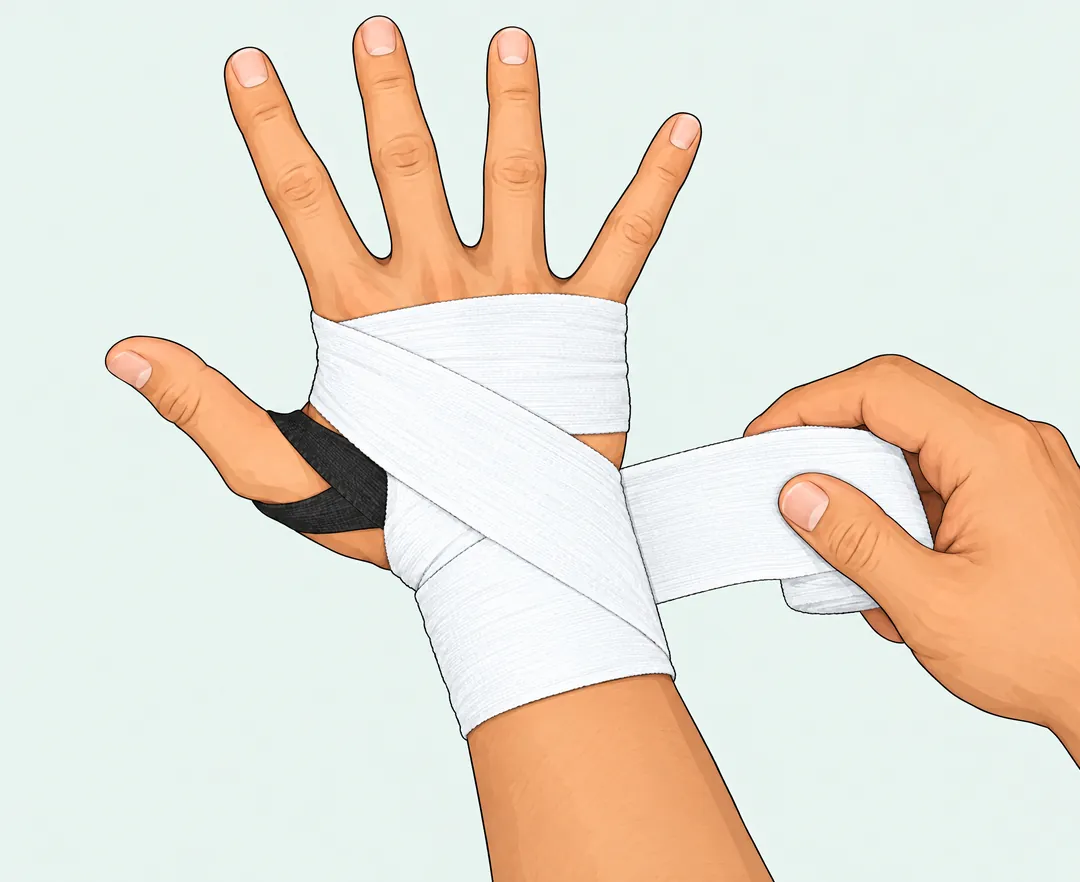
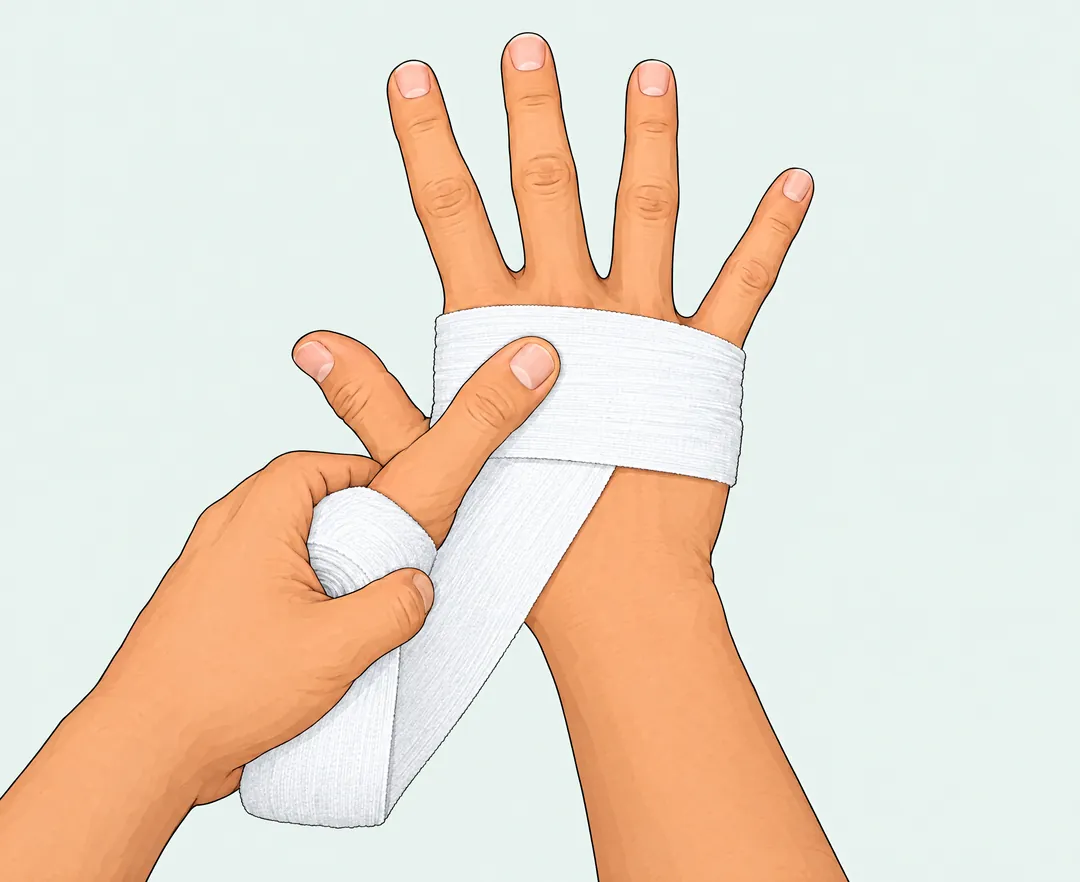
feat(handwrap): 붕대 감기를 153 방법(주먹 패드)으로 다시 — 12단계 글·그림
대표님: "화질이랑 이미지 다 좋은데 우리 방법이랑 달라" + 보내 준 영상('복싱 3.7m 붕대 감는 방법')이 153 방법.
- 그 영상 순서대로 12단계: 검지·중지로 끝 잡기 → 손가락 벌려 감기(남자 2~3·여자 3~4바퀴) → 빼서 한 번 접기
  → 주먹 위에(패드는 주먹보다 크게) → 끝 라인 2번 고정 → 손목 1바퀴 → 새끼·검지·중지 쪽으로 들어가
  엄지 사이로 나오기(지날 때마다 손목 1바퀴) → 남은 붕대는 손목에 → 벨크로 + 손바닥 정리
- 그림 14장을 같은 그림체로 새로 그림 + 화살표 좌표 맞춤, 흔한 실수·핵심 포인트·오삼이 답변도 같은 순서로
- 그림이 오른손이라 '왼손'을 고르면 좌우로 뒤집어 보이게 (예전엔 반대로 보였음)
- 훈련 라이브러리 '복싱 붕대 감기' 글도 새 방법으로 (예전 글 그대로일 때만 바꿈)

Claude-Session: https://claude.ai/code/session_01WP4Wv3phPcXu7LVLsiPPnb

diff --git a/src/data/handWrapGuide.ts b/src/data/handWrapGuide.ts
@@ -1,5 +1,5 @@
 /**
- * 🥊 붕대 감기 가이드 — 153 표준 13단계 · 흔한 실수 · 영상 포인트.
+ * 🥊 붕대 감기 가이드 — 153 표준 12단계 · 흔한 실수 · 영상 포인트.
  *
  *   2026-10-13: 처음 만듦 (그림 8단계).
  *   2026-10-15 대표님: "손 모양이 너무 AI 티가 나" → 그린 손 대신 실제 사진 + 감는 방향 화살표.
@@ -8,6 +8,12 @@
  *     사진 = 대표님이 올린 단계 사진(12컷 + 완성)을 잘라 쓴 것 (src/assets/handwrap). 153 코치님 사진으로 바꾸면 화살표 좌표도 맞춘다.
  *   2026-10-15 대표님: "사진 화질이 안 좋아 — 애니메이션화해서 화질 좋게" → 같은 사진을 보고 다시 그린 고화질 그림(1080px)으로 교체,
  *     화살표 좌표도 새 그림에 맞춤. 완성 화면 = 주먹(step14) + 다 감은 손(step13).
+ *
+ *   2026-10-16 대표님: "화질이랑 이미지 다 좋은데 우리 방법이랑 달라" + 보내 준 영상('복싱 3.7m 붕대 감는 방법')이 153 방법과 같다
+ *     → 그 영상 순서대로 12단계를 다시 쓰고 그림을 같은 그림체로 새로 그림(Higgsfield). 주먹 패드부터 만든다:
+ *       검지·중지로 끝 잡기 → 손가락 벌려 감기(남자 2~3·여자 3~4바퀴) → 빼서 한 번 접기 → 주먹 위에 → 끝 라인 2번 고정 → 손목 1바퀴
+ *       → 새끼·검지·중지 쪽으로 들어가 엄지 사이로 나오기(지날 때마다 손목 1바퀴) → 남은 붕대는 손목에 → 벨크로 → 손바닥 정리.
+ *     예전 '엄지 고리 · 손목 처음 2바퀴 · 손가락 사이 통과'는 뺐다. 완성 화면 = 주먹(step14) + 다 감은 손(step13).
  *
  *   신규 회원 첫날: 코치님은 한 손만 빠르게 감아 주고, 다른 손은 회원이 이 화면을 보며 직접 감는다.
  *   그다음 '집에서 혼자 감아 보기' 미션 — 목표 일수·보상 숫자는 DB 함수가 정본이다
@@ -34,8 +40,14 @@ import step14 from "@/assets/handwrap/step14.webp";
 export const HANDWRAP_EXERCISE_NAME = "복싱 붕대 감기";
 
 /**
- * 사진 위 화살표 — 좌표계는 viewBox 0 0 120 98 (사진 가로:세로 = 120:98, 가운데 맞춤으로 덮는다).
- * d = 감는 길(끝에 화살촉), (sx, sy) = 시작점, (tx, ty, tr) = 붕대가 들어갈 곳(손가락 사이 등, 없으면 tr 0).
+ * 그림 속 감기는 손 — 1인칭으로 내려다본 오른손(엄지가 왼쪽, 롤은 왼손이 잡음).
+ * 화면에서 다른 손을 고르면 사진과 화살표를 함께 좌우로 뒤집어 보여 준다. 그림을 왼손 사진으로 바꾸면 이것도 "left".
+ */
+export const HANDWRAP_PHOTO_HAND: "left" | "right" = "right";
+
+/**
+ * 그림 위 화살표 — 좌표계는 viewBox 0 0 120 98 (그림 가로:세로 = 120:98, 가운데 맞춤으로 덮는다).
+ * d = 감는 길(끝에 화살촉), (sx, sy) = 시작점, (tx, ty, tr) = 붕대가 들어갈·나올 곳(없으면 tr 0).
  */
 export interface WrapArrow {
   d: string;
@@ -49,107 +61,102 @@ export interface WrapArrow {
 export interface HandWrapStep {
   title: string;
   body: string;
-  /** 사진 아래 칩 (예: 손목 2바퀴 · 처음만) */
+  /** 그림 아래 칩 (예: 손목 1바퀴) */
   chip?: string;
   photo: string;
-  arrow: WrapArrow;
+  /** 감는 방향 — 감지 않는 단계(접기 등)는 없음 */
+  arrow?: WrapArrow;
 }
 
 export const HANDWRAP_STEPS: readonly HandWrapStep[] = [
   {
-    title: "엄지에 고리 걸기",
-    body: "고리를 엄지에 걸고, 붕대를 손등 쪽으로 넘겨요. 붕대에 ‘THIS SIDE DOWN’ 표시가 있으면 그 면이 피부에 닿게 해요.",
+    title: "붕대 끝 잡기",
+    body: "손바닥을 내 쪽으로 펴고, 붕대 끝을 검지와 중지 사이에 끼워 잡아요.",
     photo: step01,
-    arrow: { d: "M60 53 Q86 56 106 70", sx: 60, sy: 53 },
+    arrow: { d: "M46 62 Q54 46 61 32", sx: 46, sy: 62, tx: 62, ty: 28, tr: 5 },
   },
   {
-    title: "손목 2바퀴",
-    body: "손등을 지나 손목을 두 바퀴 감아 손목뼈를 덮어요. 단단하게, 손이 저리지 않게. 그다음부터 손목은 지날 때마다 1바퀴씩만 감아요.",
-    chip: "손목 2바퀴 · 처음만",
+    title: "손가락 벌려 감기",
+    body: "나머지 손가락을 넓게 벌리고 네 손가락을 함께 감아요. 손가락을 넓게 벌려야 패드가 주먹을 다 덮을 만큼 커져요.",
+    chip: "남자 2~3바퀴 · 여자 3~4바퀴",
     photo: step02,
-    arrow: { d: "M68 80 Q96 92 114 78 Q118 62 106 52", sx: 68, sy: 80 },
+    arrow: { d: "M38 48 Q62 42 86 36 Q92 28 84 22", sx: 38, sy: 48 },
   },
   {
-    title: "손등 지나 정권으로",
-    body: "손등 위를 비스듬히 올라가 주먹 마디(정권)로 가요.",
+    title: "조심해서 빼기",
+    body: "감은 고리가 풀리지 않게 손가락 끝 쪽으로 조심해서 빼요.",
     photo: step03,
-    arrow: { d: "M42 62 Q62 52 84 42", sx: 42, sy: 62 },
+    arrow: { d: "M52 36 Q50 24 48 13", sx: 52, sy: 36 },
   },
   {
-    title: "정권 3바퀴",
-    body: "손가락을 쫙 편 채로 정권을 세 바퀴 감아요. 주먹을 쥐고 감으면 나중에 손이 조여요.",
-    chip: "정권 3바퀴",
+    title: "한 번 접어 패드 만들기",
+    body: "뺀 고리를 납작하게 눌러 펴고, 두 손가락 정도 남기고 한 번 접어 두툼한 주먹 패드를 만들어요.",
     photo: step04,
-    arrow: { d: "M44 37 Q76 32 106 38", sx: 44, sy: 37 },
   },
   {
-    title: "다시 손목으로",
-    body: "손등을 반대 방향으로 비스듬히 내려와 손목으로 가요. 손등에 X자가 생겨요.",
+    title: "주먹 위에 올리기",
+    body: "엄지로 패드를 잡고 주먹 마디(정권) 위에 올려요. 패드가 주먹보다 커서 마디를 다 덮어야 해요.",
+    chip: "패드는 주먹보다 크게",
     photo: step05,
-    arrow: { d: "M68 34 Q60 54 48 76", sx: 68, sy: 34 },
+    arrow: { d: "M58 72 Q60 60 62 49", sx: 58, sy: 72, tx: 63, ty: 42, tr: 8 },
+  },
+  {
+    title: "끝 라인 2번 감아 고정",
+    body: "패드가 밀리지 않게, 패드 위아래 끝 라인을 따라 손을 깔끔하게 2번 감아요.",
+    chip: "2바퀴로 고정",
+    photo: step06,
+    arrow: { d: "M30 66 Q60 58 88 52 Q94 44 86 36", sx: 30, sy: 66 },
   },
   {
     title: "손목 1바퀴",
-    body: "손목을 한 바퀴만 감아요.",
+    body: "손등을 비스듬히 내려가 손목을 한 바퀴 감아요.",
     chip: "손목 1바퀴",
-    photo: step06,
-    arrow: { d: "M28 74 Q46 86 64 76 Q70 66 60 60", sx: 28, sy: 74 },
-  },
-  {
-    title: "새끼–약지 사이 통과",
-    body: "손목에서 손등을 지나 새끼손가락과 약지 사이로 넣어요.",
     photo: step07,
-    arrow: { d: "M54 84 Q58 62 63 44", sx: 54, sy: 84, tx: 63, ty: 38, tr: 5 },
+    arrow: { d: "M62 50 Q74 56 84 64 Q90 73 80 78 Q66 80 58 72", sx: 62, sy: 50 },
   },
   {
-    title: "손바닥으로 넘기기",
-    body: "통과한 붕대를 손바닥 쪽으로 넘겨요.",
+    title: "새끼손가락 쪽 → 엄지 사이",
+    body: "손목에서 손등을 비스듬히 올라가 새끼손가락 쪽으로 들어가고, 손바닥을 돌아 엄지와 검지 사이로 나와요. 그다음 손목을 한 바퀴 감아요.",
+    chip: "손목 1바퀴",
     photo: step08,
-    arrow: { d: "M56 38 Q76 40 96 44", sx: 56, sy: 38 },
+    arrow: { d: "M64 62 Q78 50 90 40", sx: 64, sy: 62, tx: 52, ty: 43, tr: 5 },
   },
   {
-    title: "넘어와 손목 1바퀴",
-    body: "손바닥을 지나 손목으로 돌아와 한 바퀴 감아요.",
+    title: "검지 쪽 → 엄지 사이",
+    body: "같은 방법으로 이번엔 검지 쪽으로 들어가 엄지와 검지 사이로 나와요. 손등에 X자가 생겨요. 그다음 손목 한 바퀴.",
     chip: "손목 1바퀴",
     photo: step09,
-    arrow: { d: "M24 72 Q40 82 58 72 Q62 64 56 58", sx: 24, sy: 72 },
+    arrow: { d: "M84 62 Q70 50 56 38", sx: 84, sy: 62, tx: 47, ty: 44, tr: 5 },
   },
   {
-    title: "약지–중지 사이 통과",
-    body: "같은 방법으로 약지와 중지 사이로 넣어요.",
+    title: "중지 쪽 → 엄지 사이",
+    body: "마지막으로 중지 쪽으로 들어가 엄지와 검지 사이로 나와요. 그다음 손목 한 바퀴.",
+    chip: "손목 1바퀴",
     photo: step10,
-    arrow: { d: "M50 80 Q51 62 53 46", sx: 50, sy: 80, tx: 53, ty: 40, tr: 5 },
+    arrow: { d: "M66 74 Q66 54 66 34", sx: 66, sy: 74, tx: 48, ty: 44, tr: 5 },
   },
   {
-    title: "손바닥 지나 손목 1바퀴",
-    body: "8·9단계와 같아요. 손바닥을 지나 손목을 한 바퀴 감아요.",
-    chip: "손목 1바퀴",
+    title: "남은 붕대는 손목에",
+    body: "남은 붕대는 손목에 전부 감아요. 손목이 단단하게 잡혀요.",
     photo: step11,
-    arrow: { d: "M36 82 Q50 90 64 80 Q70 70 62 64", sx: 36, sy: 82 },
+    arrow: { d: "M58 66 Q76 60 92 66 Q96 76 86 82 Q72 86 58 78", sx: 58, sy: 66 },
   },
   {
-    title: "중지–검지 사이 → 손목 1바퀴",
-    body: "마지막 사이(중지–검지)를 지나 손바닥으로 넘기고, 손목을 한 바퀴 감아요.",
-    chip: "손목 1바퀴",
+    title: "벨크로 붙이고 손바닥 정리",
+    body: "벨크로(찍찍이)를 손목 바깥쪽(손등 쪽)에 꾹 눌러 붙이고, 손바닥 쪽 주름을 펴서 정리해요.",
+    chip: "벨크로 마무리",
     photo: step12,
-    arrow: { d: "M64 84 Q60 62 57 46", sx: 64, sy: 84, tx: 56, ty: 40, tr: 5 },
-  },
-  {
-    title: "손목에서 찍찍이 마무리",
-    body: "남은 붕대로 손목을 한 바퀴 감고, 찍찍이를 손목 바깥쪽(손등 쪽)에 꾹 눌러 붙여요.",
-    chip: "손목 1바퀴 + 찍찍이",
-    photo: step13,
-    arrow: { d: "M64 86 Q82 92 92 80", sx: 64, sy: 86, tx: 96, ty: 74, tr: 7 },
+    arrow: { d: "M58 78 Q64 73 69 70", sx: 58, sy: 78, tx: 73, ty: 68, tr: 6 },
   },
 ];
 
-/** 손목 합계 — 처음 2바퀴 + 지날 때마다 1바퀴 × 5 (6·9·11·12·13단계) */
-export const HANDWRAP_WRIST_TOTAL = "손목 합계 2 + 1 × 5 = 7바퀴";
+/** 한눈에 요약 줄 (예전 이름 그대로 — 화면이 이 이름으로 읽는다) */
+export const HANDWRAP_WRIST_TOTAL = "주먹 패드 → 2바퀴 고정 → 새끼·검지·중지 쪽 (지날 때마다 손목 1바퀴) → 벨크로";
 
 /** 다 감은 뒤(완성 화면) */
 export const HANDWRAP_DONE = {
   title: "완성!",
-  body: "주먹을 꽉 쥐었다 펴 보세요. 마디가 푹신하고 손목이 단단하면 잘 감긴 거예요. 손끝이 저리거나 하얘지면 풀고 조금 느슨하게 다시 감아요.",
+  body: "주먹을 꽉 쥐었다 펴 보세요. 마디가 푹신하고 손목이 단단하면 잘 감긴 거예요. 너무 느슨하거나 너무 꽉 감지 않게 여러 번 연습해요 — 손끝이 저리거나 하얘지면 풀고 다시 감아요.",
   photos: [step14, step13] as const,
 } as const;
 
@@ -159,17 +166,17 @@ export interface HandWrapMistake {
 }
 
 export const HANDWRAP_MISTAKES: readonly HandWrapMistake[] = [
-  { wrong: "주먹을 쥔 채로 정권을 감아요", fix: "손가락을 쫙 편 채로 감아야 주먹을 쥐었을 때 피가 잘 통해요." },
-  { wrong: "있는 힘껏 세게 감아요", fix: "손끝이 저리거나 하얘지면 바로 풀고 다시 — 단단하게, 하지만 아프지 않게." },
-  { wrong: "손목을 지날 때마다 여러 바퀴 감아요", fix: "손목은 처음에만 2바퀴, 그다음부터는 지날 때마다 1바퀴씩이면 충분해요." },
-  { wrong: "찍찍이를 손목 안쪽(손바닥 쪽)에 붙여요", fix: "찍찍이는 손목 바깥쪽(손등 쪽)에 붙여야 장갑 안에서 쓸리지 않아요." },
-  { wrong: "붕대가 꼬이거나 주름진 채로 감아요", fix: "붕대를 평평하게 펴면서 감아야 쓸리지 않아요." },
+  { wrong: "손가락을 오므리고 감아요", fix: "손가락을 넓게 벌리고 감아야 패드가 커져서 주먹 마디를 다 덮어요." },
+  { wrong: "패드를 올리고 바로 손목으로 가요", fix: "패드 위아래 끝 라인을 2번 감아 고정해야 칠 때 패드가 밀리지 않아요." },
+  { wrong: "있는 힘껏 세게 감아요", fix: "손끝이 저리거나 하얘지면 바로 풀고 다시 — 너무 느슨하지도, 너무 꽉 조이지도 않게." },
+  { wrong: "벨크로를 손목 안쪽(손바닥 쪽)에 붙여요", fix: "벨크로는 손목 바깥쪽(손등 쪽)에 붙여야 장갑 안에서 쓸리지 않아요." },
+  { wrong: "붕대가 꼬이거나 주름진 채로 감아요", fix: "붕대를 평평하게 펴면서 감고, 마지막에 손바닥 쪽도 펴서 정리해요." },
 ];
 
 /** 영상 플레이어 아래 '핵심 포인트' */
 export const HANDWRAP_KEY_POINTS: readonly string[] = [
-  "엄지 고리 → 손목 2바퀴(처음만) → 정권 3바퀴",
-  "손가락 사이 3곳을 지나며 손목은 매번 1바퀴",
-  "마지막은 손목 1바퀴 + 찍찍이를 손목 바깥쪽에",
-  "손가락을 편 채로 감고, 저리면 풀고 다시",
+  "검지·중지로 끝 잡기 → 손가락 벌려 감기(남자 2~3 · 여자 3~4바퀴) → 빼서 한 번 접기",
+  "패드를 주먹 위에 → 끝 라인 2번 감아 고정 → 손목 1바퀴",
+  "새끼 → 검지 → 중지 쪽으로 들어가 엄지 사이로 나오기, 지날 때마다 손목 1바퀴",
+  "남은 붕대는 손목에 → 벨크로는 손목 바깥쪽 → 손바닥 정리",
 ];

diff --git a/src/pages/HandWrapGuidePage.tsx b/src/pages/HandWrapGuidePage.tsx
@@ -1,5 +1,5 @@
 /**
- * 🥊 붕대 감기 — 사진 13단계 · 영상 · 집 연습 미션 (2026-10-13 대표님, 2026-10-15 사진·방향 화살표로 다시).
+ * 🥊 붕대 감기 — 그림 12단계 · 영상 · 집 연습 미션 (2026-10-13 대표님, 2026-10-15 사진·방향 화살표로 다시, 2026-10-16 153 방법(주먹 패드)으로 다시).
  *
  *   신규 회원 첫날: 코치님은 한 손만 빠르게 감아 주고, 다른 손은 회원이 이 화면을 보며 직접 감는다.
  *   그리고 집에서 혼자 감아 보는 미션(HandWrapPracticeCard) — 다음 수업 때 코치님이 회원 상세에서 기록을 본다.
@@ -26,6 +26,7 @@ import {
   HANDWRAP_EXERCISE_NAME,
   HANDWRAP_KEY_POINTS,
   HANDWRAP_MISTAKES,
+  HANDWRAP_PHOTO_HAND,
   HANDWRAP_STEPS,
   HANDWRAP_WRIST_TOTAL,
 } from "@/data/handWrapGuide";
@@ -74,6 +75,8 @@ const HandWrapGuidePage = () => {
   const title = current ? current.title : HANDWRAP_DONE.title;
   const body = current ? current.body : HANDWRAP_DONE.body;
   const handLabel = hand === "left" ? "왼손" : "오른손";
+  /** 그림은 오른손 — 다른 손을 고르면 좌우로 뒤집는다 */
+  const mirrored = hand !== HANDWRAP_PHOTO_HAND;
 
   const go = (next: number) => setStep(Math.max(0, Math.min(TOTAL, next)));
   const prev = () => go(step - 1);
@@ -123,7 +126,7 @@ const HandWrapGuidePage = () => {
       header={
         <PageHeader
           title="붕대 감기"
-          subtitle="그림 13단계 · 영상 · 집 연습 미션"
+          subtitle={`그림 ${TOTAL}단계 · 영상 · 집 연습 미션`}
           sticky
           leftAction={
             <button
@@ -150,14 +153,14 @@ const HandWrapGuidePage = () => {
             <HandWrapPhoto
               photo={current.photo}
               arrow={current.arrow}
-              mirrored={hand === "right"}
+              mirrored={mirrored}
               stepKey={step}
               alt={`${handLabel} ${step + 1}단계 ${title} 그림`}
             />
           ) : (
             <div className="grid grid-cols-2 gap-0.5 bg-[#EEF4F2]">
               {HANDWRAP_DONE.photos.map((src, i) => (
-                <HandWrapPhoto key={src} photo={src} mirrored={hand === "right"} stepKey={`done-${i}`} alt={`다 감은 모습 ${i + 1}`} />
+                <HandWrapPhoto key={src} photo={src} mirrored={mirrored} stepKey={`done-${i}`} alt={`다 감은 모습 ${i + 1}`} />
               ))}
             </div>
           )}
@@ -296,7 +299,7 @@ const HandWrapGuidePage = () => {
                 <Clapperboard className="h-5 w-5 text-muted-foreground" />
               </span>
               <p className="mt-3 text-[15px] font-bold text-foreground">영상 준비 중이에요</p>
-              <p className="mt-1 text-[12.5px] leading-relaxed text-muted-foreground">지금은 위 그림 13단계로 따라 해요</p>
+              <p className="mt-1 text-[12.5px] leading-relaxed text-muted-foreground">지금은 위 그림 {TOTAL}단계로 따라 해요</p>
               {isStaff && (
                 <div className="mt-4 rounded-xl bg-secondary px-3 py-2.5 text-left">
                   <p className="text-[11.5px] leading-relaxed text-muted-foreground">
@@ -352,7 +355,7 @@ const HandWrapGuidePage = () => {
       {/* ── 한눈에 ── */}
       <section aria-labelledby="handwrap-all-h" className="mt-7">
         <h2 id="handwrap-all-h" className="px-1 text-[16px] font-black text-foreground">
-          13단계 한눈에
+          {TOTAL}단계 한눈에
         </h2>
         <p className="mt-0.5 px-1 text-[12.5px] font-bold text-primary">{HANDWRAP_WRIST_TOTAL}</p>
         <ol className="mt-2 grid grid-cols-3 gap-2">
@@ -367,7 +370,7 @@ const HandWrapGuidePage = () => {
                   i === step ? "ring-2 ring-primary" : "ring-1 ring-border/60",
                 )}
               >
-                <HandWrapPhoto photo={s.photo} arrow={s.arrow} mirrored={hand === "right"} animate={false} alt="" className="rounded-lg" />
+                <HandWrapPhoto photo={s.photo} arrow={s.arrow} mirrored={mirrored} animate={false} alt="" className="rounded-lg" />
                 <span className="mt-1 block truncate px-0.5 text-center text-[10.5px] font-bold text-foreground">
                   {i + 1}. {s.title}
                 </span>

diff --git a/src/components/handwrap/HandWrapPhoto.tsx b/src/components/handwrap/HandWrapPhoto.tsx
@@ -4,7 +4,7 @@
  *   · 사진 위에 SVG(viewBox 0 0 120 98)를 겹친다 — 사진과 같은 비율이라 좌표가 그대로 맞는다.
  *   · 단계가 바뀌면: 사진이 살짝 커지며 나타나고 → 화살표가 시작점에서 끝까지 그려지고 →
  *     빛나는 점이 감는 길을 따라 계속 흐른다. 시작점(흰 점)·들어갈 곳(원)은 숨 쉬듯 깜빡인다.
- *   · 오른손 = 사진과 화살표를 함께 좌우로 뒤집는다.
+ *   · 다른 손 = 사진과 화살표를 함께 좌우로 뒤집는다 (그림은 오른손 — data/handWrapGuide.ts HANDWRAP_PHOTO_HAND).
  *   · '움직임 줄이기'를 켠 폰에서는 멈춘 화살표만 보인다.
  */
 import { useId } from "react";
@@ -17,7 +17,7 @@ const ORANGE = "#FF7A1A";
 interface Props {
   photo: string;
   arrow?: WrapArrow | null;
-  /** 오른손 — 좌우 반전 */
+  /** 그림과 다른 손 — 좌우 반전 */
   mirrored?: boolean;
   /** 큰 화면은 true, 한눈에 보기 썸네일은 false (멈춘 화살표) */
   animate?: boolean;
@@ -46,7 +46,7 @@ const HandWrapPhoto = ({ photo, arrow, mirrored, animate = true, stepKey, alt, c
           exit={live ? { opacity: 0 } : undefined}
           transition={{ duration: 0.35, ease: "easeOut" }}
         >
-          {/* 오른손 = 사진·화살표 함께 뒤집기 (움직임은 바깥 motion.div 가 맡는다) */}
+          {/* 다른 손 = 사진·화살표 함께 뒤집기 (움직임은 바깥 motion.div 가 맡는다) */}
           <div className="absolute inset-0" style={mirrored ? { transform: "scaleX(-1)" } : undefined}>
           <img src={photo} alt={alt} draggable={false} className="h-full w-full select-none object-cover" />
 

diff --git a/src/lib/appSearch.ts b/src/lib/appSearch.ts
@@ -239,8 +239,8 @@ export const FEATURES: readonly SearchEntry[] = [
     ["레벨업", "승급", "랭크업", "리그", "화이트", "블루", "레드", "블랙", "출석 3번", "레벨 올리기", "등급"], { boost: 2 }),
   f("rankup-guide", "타이틀매치 · 직행권 안내", "심사 기준과 관문 직행권 한 장 정리", "medal", { kind: "href", href: "/rankup" },
     ["타이틀매치", "직행권", "관문 직행권", "패스트트랙", "심사 기준", "타이틀매치 미션", "승급 안내"]),
-  // 붕대 감기 (/handwrap) — 사진 13단계·영상·집 연습 미션 (2026-10-13)
-  f("handwrap", "붕대 감기", "그림 13단계 · 영상 · 집 연습 미션", "handwrap", go("/handwrap"),
+  // 붕대 감기 (/handwrap) — 그림 12단계·영상·집 연습 미션 (2026-10-13, 2026-10-16 153 방법으로 다시)
+  f("handwrap", "붕대 감기", "그림 12단계 · 영상 · 집 연습 미션", "handwrap", go("/handwrap"),
     ["붕대", "붕대 감기", "붕대 감는 법", "붕대 감는 방법", "핸드랩", "핸드 랩", "랩 감기", "밴디지", "손 붕대", "집 연습", "붕대 미션"], { boost: 2 }),
   f("training-library", "훈련 라이브러리", "동작 설명 · 그림", "books", go("/training-library"),
     ["라이브러리", "운동 설명", "드릴", "동작 그림", "운동법"]),

diff --git a/src/pages/TrainingLibraryPage.tsx b/src/pages/TrainingLibraryPage.tsx
@@ -193,13 +193,13 @@ const TrainingLibraryPage = () => {
               ) : (
                 <video src={sel.video_url} controls playsInline className="mb-3 w-full rounded-xl bg-black" />
               ))}
-            {/* 붕대 감기는 전용 화면(사진 13단계·집 연습 미션)으로 */}
+            {/* 붕대 감기는 전용 화면(그림 12단계·집 연습 미션)으로 */}
             {sel.name === HANDWRAP_EXERCISE_NAME && (
               <button
                 onClick={() => navigate("/handwrap")}
                 className="mb-3 flex w-full items-center justify-between rounded-xl bg-primary/10 px-3.5 py-3 text-left text-sm font-bold text-primary transition-all active:scale-[0.99]"
               >
-                그림 13단계로 따라 하기 · 집 연습 미션
+                그림 12단계로 따라 하기 · 집 연습 미션
                 <ChevronRight className="h-4 w-4 shrink-0" />
               </button>
             )}

diff --git a/src/lib/appMenu.ts b/src/lib/appMenu.ts
@@ -24,7 +24,7 @@ export const APP_MENU: readonly AppMenuItem[] = [
   // 타이틀매치 — 레벨 10·20·30·40 심사 동작 영상만 모아 둔 곳 (2026-10-01). 첫 줄에 둔다.
   { path: "/title-match", label: "타이틀매치", glyph: "titlematch" },
   { path: "/minigame", label: "복싱 트레이닝", glyph: "glove" },
-  // 붕대 감기 — 사진 13단계·영상·집 연습 미션 (2026-10-13). 신규 회원 첫날 코치님이 한 손, 회원이 이 화면 보며 한 손.
+  // 붕대 감기 — 그림 12단계·영상·집 연습 미션 (2026-10-13, 2026-10-16 153 방법으로 다시). 신규 회원 첫날 코치님이 한 손, 회원이 이 화면 보며 한 손.
   { path: "/handwrap", label: "붕대 감기", glyph: "handwrap" },
   { path: "/training-library", label: "훈련 라이브러리", glyph: "books" },
   { path: "/routines", label: "수업 루틴", glyph: "clipboard" },

diff --git a/src/App.tsx b/src/App.tsx
@@ -128,7 +128,7 @@ const SearchPage = lazyWithRetry(() => import("@/pages/SearchPage"));
 const TitleMatchPage = lazyWithRetry(() => import("@/pages/TitleMatchPage"));
 // 알림함 — 공지·출석·수업 소식 (2026-10-01 대표님)
 const NotificationsPage = lazyWithRetry(() => import("@/pages/NotificationsPage"));
-// 붕대 감기 — 사진 13단계·영상·집 연습 미션 (2026-10-13 대표님)
+// 붕대 감기 — 그림 12단계·영상·집 연습 미션 (2026-10-13 대표님, 2026-10-16 153 방법으로 다시)
 const HandWrapGuidePage = lazyWithRetry(() => import("@/pages/HandWrapGuidePage"));
 
 const queryClient = new QueryClient({
